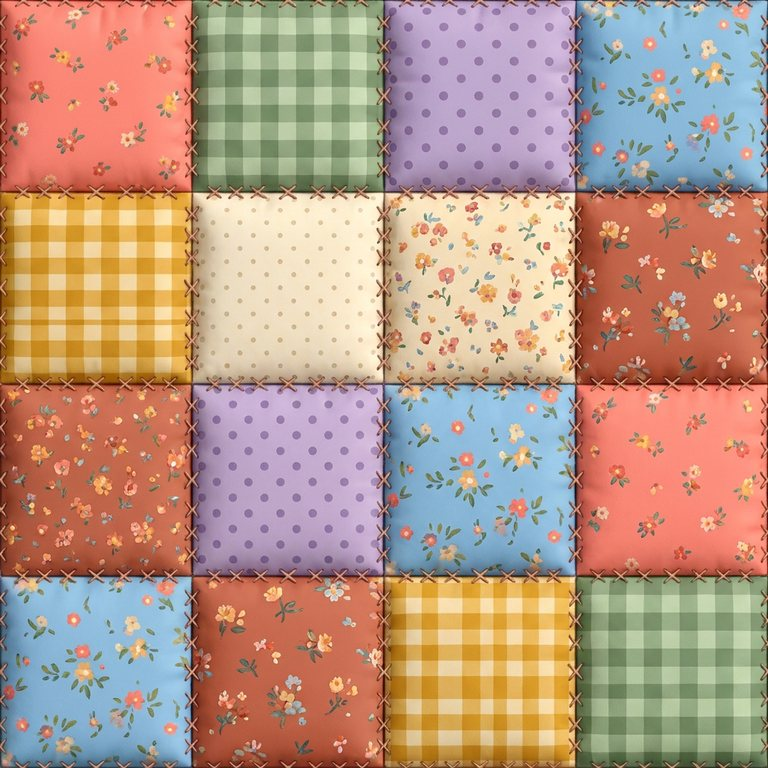
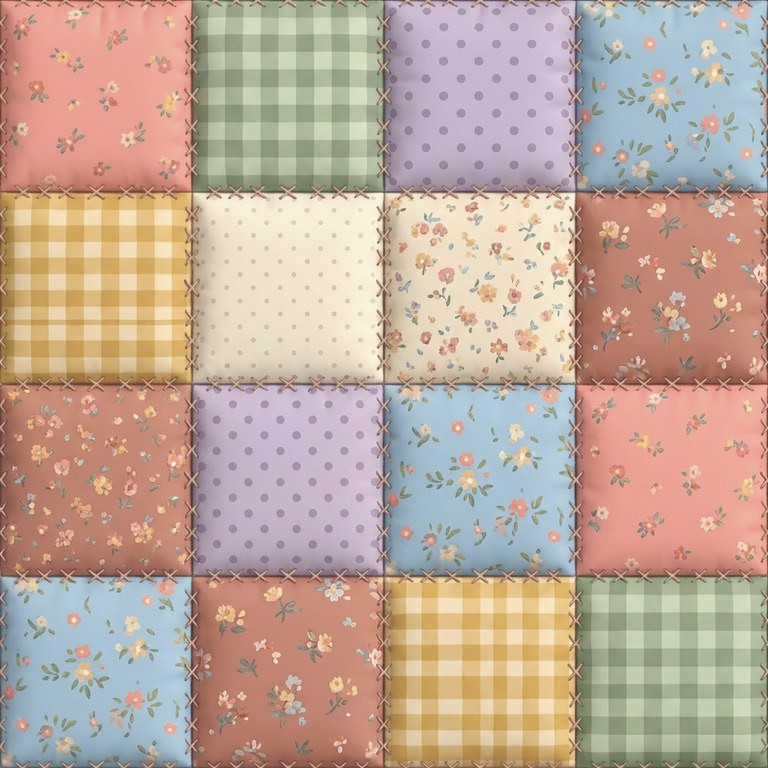
Props: photo pass - blue stoneware crock by the bunk, all-brass telescope, pastel quilts, light peach kitchen rug
Claude-Session: https://claude.ai/code/session_015DKXes48LGH3EXBkmLxH5B

diff --git a/game/props.js b/game/props.js
@@ -686,7 +686,7 @@ function bucket(h = .36, metal = false) { const g = new THREE.Group(); const r0 
     for (const s of [-1, 1]) add(g, new THREE.CylinderGeometry(.012, .012, .008, 10), M.iron, 0, ey, s * er, Math.PI / 2, 0, 0); }
   return bake(g); }
 const RUG_IMG = { check: 'rug-blue.jpg', orange: 'rug-orange.jpg', green: 'rug-green.jpg' };
-function rug(w, d, kind, fringe) { const g = new THREE.Group(); const t = upgrade(texOf(rugCanvas(kind)), RUG_IMG[kind]); if (kind === 'check') t.repeat.set(w / .7, d / .7); const m = new THREE.MeshStandardMaterial({ map: t, roughness: 1, color: kind === 'orange' ? 0xB2A496 : 0xffffff });   /* the orange rug glowed like a lit panel in the sun: wool is duller */ { const pg = new THREE.PlaneGeometry(w, d, 24, 16); pg.rotateX(-Math.PI / 2); const P = pg.attributes.position; const ph = R() * 6, fx = R() * w - w / 2;
+function rug(w, d, kind, fringe) { const g = new THREE.Group(); const t = upgrade(texOf(rugCanvas(kind)), RUG_IMG[kind]); if (kind === 'check') t.repeat.set(w / .7, d / .7); const m = new THREE.MeshStandardMaterial({ map: t, roughness: 1, color: kind === 'orange' ? 0xCDC2BC : 0xffffff });   /* the orange rug glowed like a lit panel in the sun: wool is duller; [photo round] but the photo's rug is a light peach, not brick red: a lighter, slightly cool tint */ { const pg = new THREE.PlaneGeometry(w, d, 24, 16); pg.rotateX(-Math.PI / 2); const P = pg.attributes.position; const ph = R() * 6, fx = R() * w - w / 2;
     for (let i = 0; i < P.count; i++) { const x = P.getX(i), z = P.getZ(i); let y = .014;   /* boards bow up to ~1 cm: at .006 a high board showed through the rug */
       y += .006 * Math.max(0, Math.sin(x * 9 + ph + z * 2)) * Math.max(0, 1 - Math.abs(x - fx) / (w * .3)); // a soft ruck where it was kicked
       y += .003 * Math.sin(x * 23 + z * 7 + ph) * Math.sin(z * 17);
@@ -698,6 +698,14 @@ function rug(w, d, kind, fringe) { const g = new THREE.Group(); const t = upgrad
 function wallShelf(w, { brackets = true, mat = M.woodLight } = {}) { const g = new THREE.Group(); W(g, w, .035, .24, 0, 0, .12, { mat }); if (brackets) for (const s of [-1, 1]) { const sh = new THREE.Shape(); sh.moveTo(0, 0); sh.lineTo(.18, 0); sh.quadraticCurveTo(.06, -.04, 0, -.17); sh.lineTo(0, 0); const e = new THREE.ExtrudeGeometry(sh, { depth: .03, bevelEnabled: true, bevelSize: .004, bevelThickness: .004, bevelSegments: 2 }); add(g, e, M.woodDark, s * (w / 2 - .08) - .015, -.018, .01, 0, -Math.PI / 2, 0); } return g; }
 // a jar that reads as a jar up close: shoulder and neck, a ridged screw lid, contents behind glass, a paper label
 const JAR_FILL = [0x8E2A2A, 0xB8862E, 0x6E7A2E, 0xC8642A]; let jarN = 0;
+// photo: a round blue-glazed stoneware crock with a lid stands on the floor left of the bunk. Glaze stops short of the
+// foot (raw cream clay shows at the base, as on real dipped stoneware) and a raised cream slip ring circles the shoulder.
+function crock() { const g = new THREE.Group();
+  add(g, lathe([[0, .004], [.09, 0], [.105, .012], [.107, .03], [0, .03]], 22), M.glazeCream);
+  add(g, lathe([[0, .03], [.107, .03], [.128, .09], [.135, .15], [.124, .21], [.098, .25], [.086, .262], [.088, .275], [.074, .275], [.07, .262], [0, .262]], 22), M.glazeBlue);
+  add(g, new THREE.TorusGeometry(.127, .005, 4, 22), M.glazeCream, 0, .205, 0, Math.PI / 2, 0, 0);
+  add(g, lathe([[0, .262], [.08, .262], [.083, .268], [.07, .282], [.03, .29], [.018, .292], [.02, .308], [.012, .314], [0, .315]], 22), M.glazeBlue);
+  return g; }
 function jar(h, r, mat) { const g = new THREE.Group(); add(g, lathe([[0, 0], [r * .9, 0], [r, r * .12], [r * 1.04, h * .12], [r * 1.04, h * .74], [r * .96, h * .82], [r * .78, h * .87], [r * .76, h * .9], [r * .76, h * .93], [0, h * .93]], 22), mat);
   if (mat === M.jarGlass) { add(g, new THREE.CylinderGeometry(r * .92, r * .92, h * .66, 16), std2(JAR_FILL[jarN++ % JAR_FILL.length]), 0, h * .38, 0); }
   add(g, new THREE.CylinderGeometry(r * .82, r * .82, h * .1, 22), M.steel, 0, h * .97, 0); add(g, new THREE.TorusGeometry(r * .82, h * .012, 4, 22), M.steel, 0, h * .93, 0, Math.PI / 2);
@@ -922,7 +930,7 @@ function telescope() {
   /* tripod tall enough for the hero's eye: eyepiece ~1.34 m (Grab); the legs stretch, the tube and brass keep their size */
   const g = new THREE.Group(); const top = 1.36, LK = top / 1.08;
   // aged brass (less candy-yellow than TB) and a dark lacquered tube body, like an old field telescope
-  const TB = new THREE.MeshStandardMaterial({ color: 0x8E7646, metalness: .78, roughness: .52, envMap: M.env, envMapIntensity: .7 }) /* [PROPS round] years out on the deck: tarnished, dull brass (in the sun it read as orange toy plastic) */, LAC = new THREE.MeshStandardMaterial({ color: 0x1C2633, roughness: .3, metalness: .35, envMap: M.env, envMapIntensity: 1.2 });
+  const TB = new THREE.MeshStandardMaterial({ color: 0xA08C62, metalness: .9, roughness: .34, envMap: M.env, envMapIntensity: .85 }) /* [photo round] polished brass fittings that catch the light like the photo's; low saturation so the sun never turns it orange plastic */, LAC = new THREE.MeshStandardMaterial({ color: 0x75623F, roughness: .46, metalness: .85, envMap: M.env, envMapIntensity: .8 }) /* the photo's tube is brass all over: a darker, hand-worn brass body between the bright fittings (the navy lacquer read as black stripes) */;
   for (let i = 0; i < 3; i++) { const l = new THREE.Group(); l.position.set(0, top, 0); l.rotation.y = i * Math.PI * 2 / 3 + .4; l.scale.set(1, LK, LK); g.add(l); W(l, .035, 1.16, .025, 0, -.55, .19, { mat: M.woodDark, grain: 1, r: .008, rx: -.33 }); add(l, rb(.04, .025, .035, .008), TB, 0, -.02, .02); add(l, rb(.022, .016, .13, .004), M.woodDark, 0, -.5, .105); add(l, new THREE.CylinderGeometry(.006, .006, .03, 6), TB, 0, -1.08, .38); }
   add(g, new THREE.CylinderGeometry(.065, .065, .014, 3), M.woodDark, 0, top - .5 * LK, 0); // spreader tray
   add(g, new THREE.CylinderGeometry(.05, .06, .05, 20), TB, 0, top, 0);
@@ -1406,6 +1414,7 @@ export function buildProps(ctx) {
   out.switches = {}; out.switchN = {};
   place('blamp', bracketLantern(), .18, BD + 1.65, 1.95, { solid: false, wall: true });
   place('brug', rug(1.8, 1.05, 'check', '#D8CFBD'), -2.0, BD, 2.85, { solid: false });
+  place('crock', bake(crock()), -3.52, BD, 1.24, { ry: .5 }); /* the photo's blue crock left of the bunk, in the corner by the back wall (off the hatch and bunk paths) */
   { const s = wallShelf(.7); for (let i = 0, x = -.28; i < 7; i++) { const bw = rr(.025, .04); const b = closedBook(bw, rr(.16, .22), .15, M.covers[i]); b.position.set(x + bw / 2, .018, .12); s.add(b); x += bw + .003; } const j = jar(.1, .04, M.glazeCream); j.position.set(.22, .018, .12); s.add(j); bake(s); place('bshelf', s, -.35, BD + 1.25, .99, { solid: false, wall: true }); }
 
   // ---------- workshop ----------
